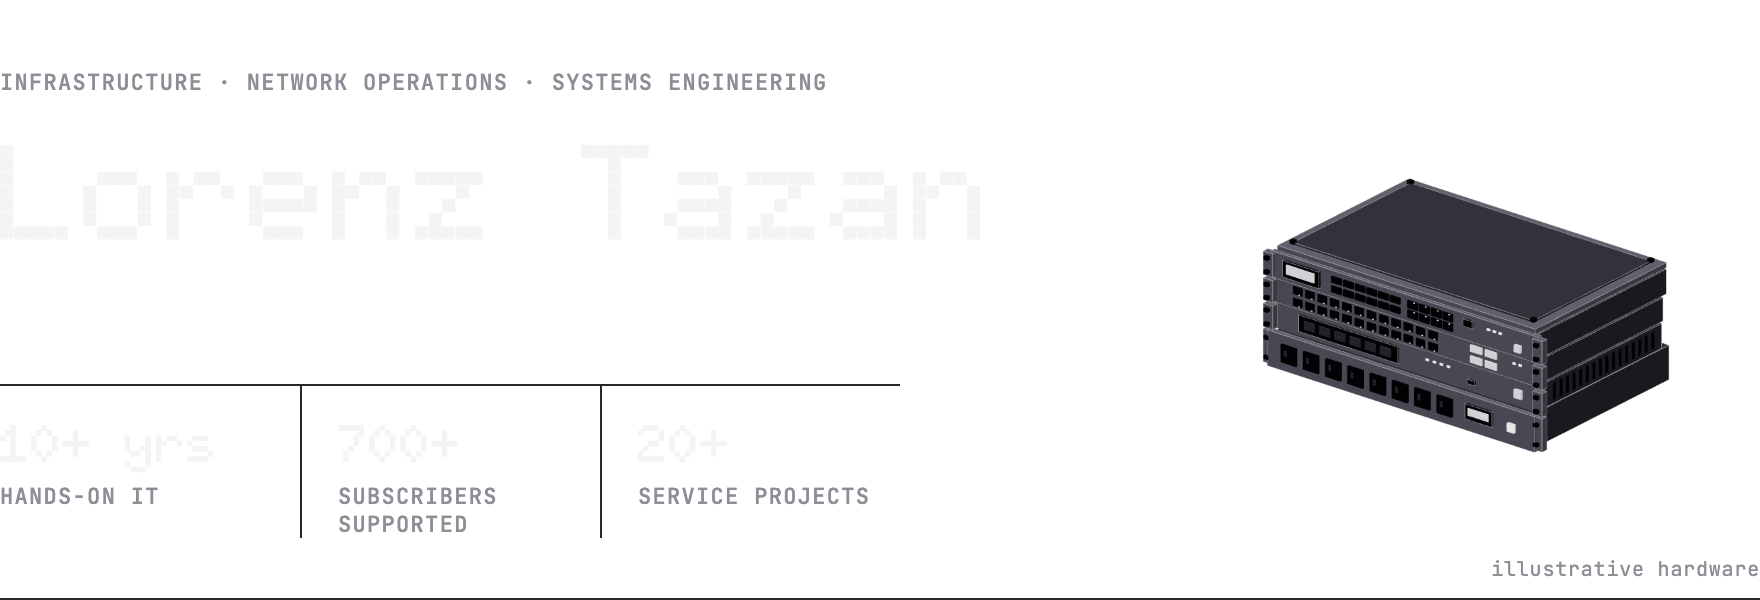
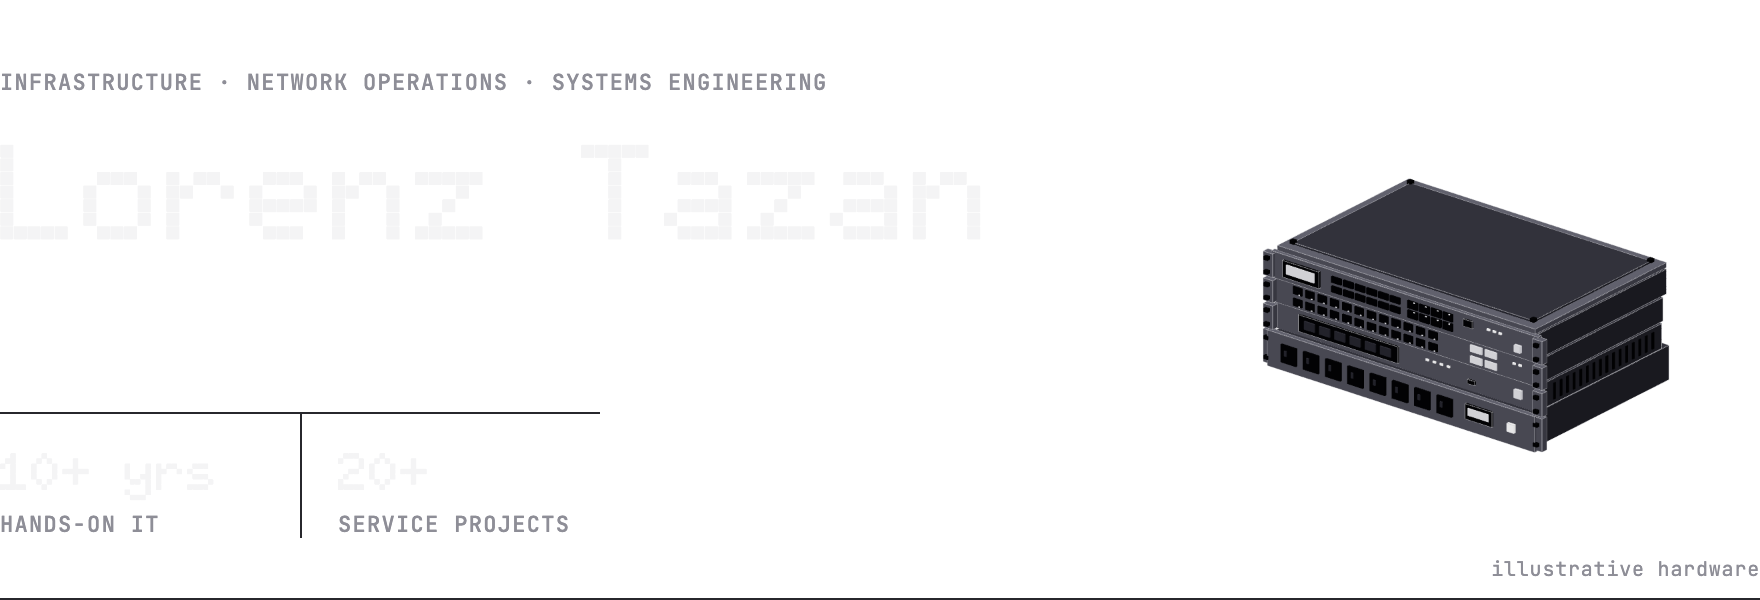
Rewrite "what i do" and trim profile metrics
- New "what i do": infrastructure and networks, web development, and
  game development, one short paragraph each.
- Banner keeps two facts (10+ years hands-on IT, 20+ service projects);
  the subscriber count is removed.
- Remove the availability and backbone-speed claims and the freelance
  web block, which lives on the portfolio site.

diff --git a/README.md b/README.md
@@ -1,6 +1,6 @@
 <picture>
   <source media="(prefers-color-scheme: dark)" srcset="assets/header-dark.png">
-  <img alt="Lorenz Tazan. Infrastructure, network operations, systems engineering. 10+ years hands-on IT, 700+ subscribers supported, 20+ service projects." src="assets/header-light.png" width="880">
+  <img alt="Lorenz Tazan. Infrastructure, network operations, systems engineering. 10+ years hands-on IT, 20+ service projects." src="assets/header-light.png" width="880">
 </picture>
 
 Building reliable infrastructure and solving complex technical problems across network operations, systems administration, and automation. 10+ years of hands-on experience delivering high-availability systems for enterprise, ISP, and DoD contractor environments.
@@ -11,7 +11,16 @@ Building reliable infrastructure and solving complex technical problems across n
 
 <h2><picture><source media="(prefers-color-scheme: dark)" srcset="assets/label-what-i-do-dark.png"><img alt="what i do" src="assets/label-what-i-do-light.png" height="31"></picture></h2>
 
-I specialize in infrastructure reliability and network operations, whether that's managing distributed server environments, deploying secure DoD contractor networks, or maintaining ISP-grade systems serving hundreds of concurrent users. My focus is on uptime, performance, and proper documentation.
+**I keep systems running and build what runs on them.**
+
+**infrastructure & networks**<br>
+I run Linux servers and the networks underneath them: MikroTik gear and firewall and router software on a regional ISP network, UniFi installs for small offices, and the documentation that lets someone else take over. 10+ years hands-on, from the repair bench to the server rack.
+
+**web development**<br>
+I build websites for small businesses and creatives, from planning to launch, with accessibility and security built in from the start.
+
+**game development**<br>
+I build game server infrastructure and create Java plugins and mods for Minecraft and other games.
 
 <h2><picture><source media="(prefers-color-scheme: dark)" srcset="assets/label-focus-dark.png"><img alt="focus" src="assets/label-focus-light.png" height="31"></picture></h2>
 
@@ -24,7 +33,6 @@ I specialize in infrastructure reliability and network operations, whether that'
 <h2><picture><source media="(prefers-color-scheme: dark)" srcset="assets/label-track-record-dark.png"><img alt="track record" src="assets/label-track-record-light.png" height="31"></picture></h2>
 
 - **99.9% uptime** managing distributed infrastructure serving 300+ concurrent users
-- **99.8% availability** operating ISP network supporting 700+ subscribers
 - **56% latency reduction** through performance optimization and infrastructure tuning
 - **24/7 operations experience** with on-call support and incident response
 
@@ -63,7 +71,7 @@ I specialize in infrastructure reliability and network operations, whether that'
 
 **network infrastructure**
 
-- [Regional Fiber ISP: Core Network](https://github.com/AIKUSAN/regional-fiber-isp): 10Gbps backbone serving 700+ subscribers (MikroTik/BGP/CGNAT)
+- [Regional Fiber ISP: Core Network](https://github.com/AIKUSAN/regional-fiber-isp): core network design with MikroTik routing and CGNAT
 - [Global Traffic Manager](https://github.com/AIKUSAN/global-traffic-manager): geographic traffic steering with intelligent health monitoring
   - F5 BIG-IP GTM with custom Lua iRules
   - AI-powered failover analysis and incident reporting
@@ -80,13 +88,6 @@ I specialize in infrastructure reliability and network operations, whether that'
   - Deployment automation for multi-environment infrastructure
   - Operational efficiency tools for daily workflows
 - [MariaDB Performance Optimization](https://github.com/AIKUSAN/mariadb-optimization-guide): clustering, replication, and 56% latency reduction techniques
-
-**web development (freelance)**
-
-Full-stack web development for local Southern Maryland businesses.
-
-- **Tori Tazan Portfolio** ([toritazan.com](https://toritazan.com)): professional illustrator portfolio with custom Astro + GSAP animations
-- **Proven Training Concepts** (in development): corporate website for a DoD contractor with Cloudflare Workers deployment
 
 <h2><picture><source media="(prefers-color-scheme: dark)" srcset="assets/label-activity-dark.png"><img alt="activity" src="assets/label-activity-light.png" height="31"></picture></h2>
 
